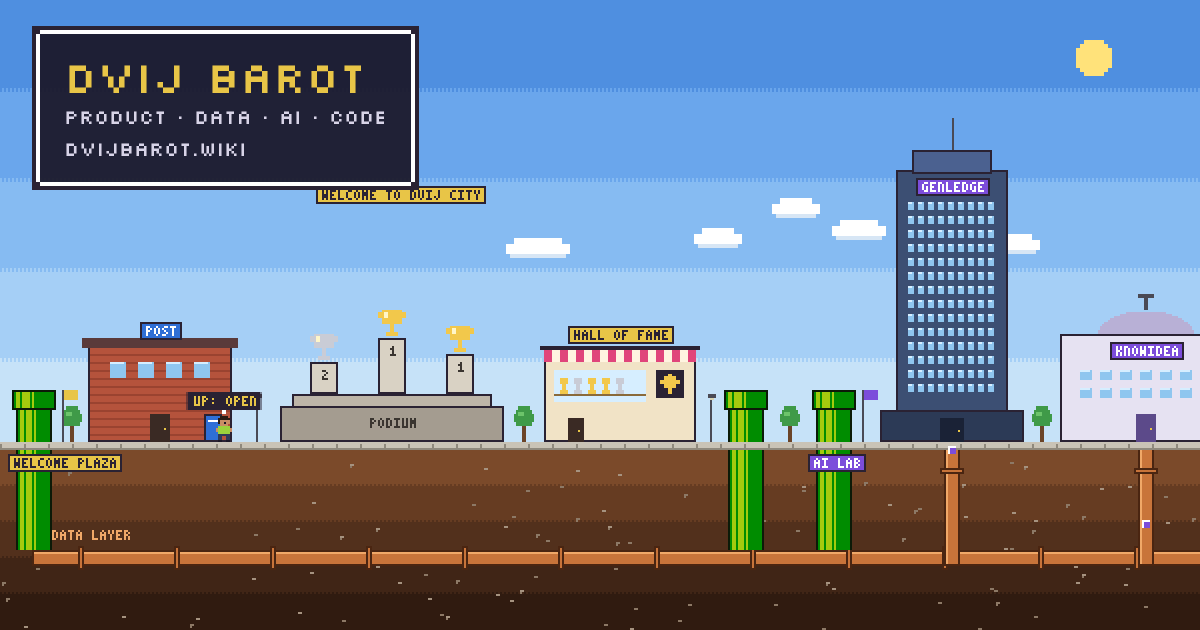
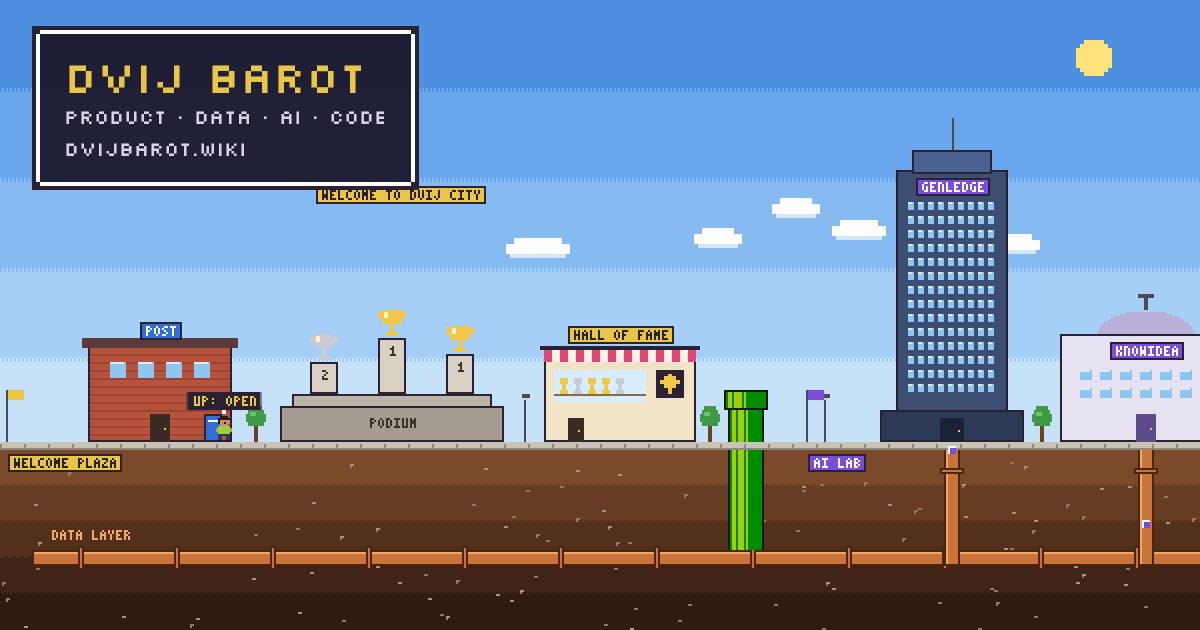
Warp pipes chain to each other in both directions
Removes the extra arrival pipes. There is one pipe between each pair of
districts, and they link in a chain: face right and go down to come out
of the next pipe, face left to come out of the previous one. The ends
wrap around. The prompt shows the direction (DOWN: WARP > or < DOWN: WARP).
Clicking a pipe warps forward; linking to a pipe just stands you on it.

Claude-Session: https://claude.ai/code/session_014qguYD8MymQYJPSwfXQGWj

diff --git a/src/scripts/city/world.ts b/src/scripts/city/world.ts
@@ -68,34 +68,29 @@ export interface Structure {
   riser?: number; // x of the data pipe that feeds this building
 }
 
-// Arrival pipes at each district entrance. Warps rise out of these. They are
-// exit-only (no ref), but solid, so you can stand on them.
-const arrivals = (): Structure[] =>
-  DISTRICTS.map((d) => ({ id: `arrive-${d.id}`, label: `${d.name} arrival pipe`, kind: 'warp' as const, x: d.x0 + 6, w: 22, h: 26, district: d.id }));
-
-export const STRUCTURES: Structure[] = ([
+export const STRUCTURES: Structure[] = [
   // Welcome Plaza
   { id: 'post', label: 'Post Office: about and contact', kind: 'post', x: 44, w: 72, h: 56, district: 'plaza', ref: { type: 'contact' }, text: ['POST'] },
   { id: 'podium', label: 'Podium: hackathon wins', kind: 'monument', x: 140, w: 112, h: 66, district: 'plaza', ref: { type: 'hackathons' }, text: ['PODIUM'] },
   { id: 'halloffame', label: 'Hall of Fame: trophy case', kind: 'kiosk', x: 272, w: 76, h: 52, district: 'plaza', ref: { type: 'trophies' }, text: ['HALL OF FAME'] },
-  { id: 'warp-1', label: 'Warp to AI Lab', kind: 'warp', x: 362, w: 22, h: 26, district: 'plaza', ref: { type: 'warp', to: 1 } },
+  { id: 'warp-1', label: 'Warp pipe', kind: 'warp', x: 362, w: 22, h: 26, district: 'plaza', ref: { type: 'warp', to: 1 } },
 
   // AI Lab
   { id: 'genledge', label: 'GenLedge Tower', kind: 'tower', x: 440, w: 72, h: 146, district: 'ai', ref: { type: 'role', org: 'GenLedge' }, text: ['GENLEDGE'], riser: 476 },
   { id: 'knowidea', label: 'KnowIdea Lab', kind: 'lab', x: 530, w: 86, h: 76, district: 'ai', ref: { type: 'role', org: 'KnowIdea Inc.' }, text: ['KNOWIDEA'], riser: 573 },
   { id: 'marble', label: 'Urban Marble Tower', kind: 'marble', x: 638, w: 48, h: 160, district: 'ai', ref: { type: 'project', name: 'Urban Marble' }, text: ['1ST'] },
-  { id: 'warp-2', label: 'Warp to Play District', kind: 'warp', x: 762, w: 22, h: 26, district: 'ai', ref: { type: 'warp', to: 2 } },
+  { id: 'warp-2', label: 'Warp pipe', kind: 'warp', x: 762, w: 22, h: 26, district: 'ai', ref: { type: 'warp', to: 2 } },
 
   // Play District
   { id: 'arcade', label: 'Arcade Hall: play games', kind: 'arcadehall', x: 838, w: 132, h: 98, district: 'play', ref: { type: 'arcade' }, text: ['ARCADE'] },
   { id: 'museum', label: 'Museum of Favourites', kind: 'museum', x: 984, w: 92, h: 86, district: 'play', ref: { type: 'museum' }, text: ['MUSEUM'] },
-  { id: 'warp-3', label: 'Warp to Marketing Strip', kind: 'warp', x: 1100, w: 22, h: 26, district: 'play', ref: { type: 'warp', to: 3 } },
+  { id: 'warp-3', label: 'Warp pipe', kind: 'warp', x: 1100, w: 22, h: 26, district: 'play', ref: { type: 'warp', to: 3 } },
 
   // Marketing Strip
   { id: 'golime', label: 'Go Lime', kind: 'shop', x: 1180, w: 92, h: 96, district: 'marketing', ref: { type: 'role', org: 'Go Lime Inc.' }, text: ['GO LIME'], riser: 1226 },
   { id: 'ab', label: 'A/B test billboard', kind: 'billboard', x: 1290, w: 84, h: 70, district: 'marketing', ref: { type: 'role', org: 'Go Lime Inc.' }, text: ['A', 'B'] },
   { id: 'leads', label: 'Lead reporting billboard', kind: 'billboard', x: 1388, w: 96, h: 58, district: 'marketing', ref: { type: 'role', org: 'Go Lime Inc.' }, text: ['LEADS', '12 MIN>10 S'] },
-  { id: 'warp-4', label: 'Warp to Civic Center', kind: 'warp', x: 1490, w: 22, h: 26, district: 'marketing', ref: { type: 'warp', to: 4 } },
+  { id: 'warp-4', label: 'Warp pipe', kind: 'warp', x: 1490, w: 22, h: 26, district: 'marketing', ref: { type: 'warp', to: 4 } },
 
   // Civic Center
   { id: 'cityscapes', label: 'CityScapes Park', kind: 'park', x: 1560, w: 88, h: 44, district: 'civic', ref: { type: 'project', name: 'CityScapes' }, text: ['CITYSCAPES'] },
@@ -104,20 +99,19 @@ export const STRUCTURES: Structure[] = ([
   { id: 'cityhall', label: 'Kitchener City Hall', kind: 'hall', x: 1868, w: 112, h: 104, district: 'civic', ref: { type: 'civic' }, text: ['CITY HALL'] },
   { id: 'altaml', label: 'Hauser Furniture: AltaML', kind: 'furniture', x: 1994, w: 68, h: 66, district: 'civic', ref: { type: 'role', org: 'AltaML Inc.' }, text: ['HAUSER'], riser: 2028 },
   { id: 'sevenafter', label: 'SevenAfter School', kind: 'school', x: 2080, w: 96, h: 80, district: 'civic', ref: { type: 'role', org: 'SevenAfter Technologies' }, text: ['SEVENAFTER'] },
-  { id: 'warp-5', label: 'Warp to Data District', kind: 'warp', x: 2206, w: 22, h: 26, district: 'civic', ref: { type: 'warp', to: 5 } },
+  { id: 'warp-5', label: 'Warp pipe', kind: 'warp', x: 2206, w: 22, h: 26, district: 'civic', ref: { type: 'warp', to: 5 } },
 
   // Data District
   { id: 'super', label: 'Super.com Warehouse', kind: 'warehouse', x: 2276, w: 156, h: 66, district: 'data', ref: { type: 'role', org: 'Super.com' }, text: ['SUPER.COM'], riser: 2354 },
   { id: 'lake', label: 'Data Lake: pipelines', kind: 'watertower', x: 2450, w: 36, h: 96, district: 'data', ref: { type: 'pipelines' }, text: ['DATA', 'LAKE'], riser: 2468 },
-  { id: 'warp-6', label: "Warp to Builder's Yard", kind: 'warp', x: 2526, w: 22, h: 26, district: 'data', ref: { type: 'warp', to: 6 } },
+  { id: 'warp-6', label: 'Warp pipe', kind: 'warp', x: 2526, w: 22, h: 26, district: 'data', ref: { type: 'warp', to: 6 } },
 
   // Builder's Yard
   { id: 'boggle', label: 'Boggle Zen Arcade', kind: 'arcade', x: 2600, w: 82, h: 62, district: 'yard', ref: { type: 'project', name: 'Boggle Zen' }, text: ['BOGGLE'] },
   { id: 'ecoeats', label: 'Eco Eats Grocer', kind: 'grocer', x: 2694, w: 84, h: 56, district: 'yard', ref: { type: 'project', name: 'Eco Eats Advisor' }, text: ['ECO EATS'], riser: 2736 },
   { id: 'summit', label: 'SUMMIT (under construction)', kind: 'construction', x: 2796, w: 116, h: 108, district: 'yard', ref: { type: 'project', name: 'SUMMIT Financial Learning' }, text: ['SUMMIT'] },
-  { id: 'warp-0', label: 'Warp back to Welcome Plaza', kind: 'warp', x: 2926, w: 22, h: 26, district: 'yard', ref: { type: 'warp', to: 0 } },
-  ...arrivals(),
-] satisfies Structure[]).sort((a, b) => a.x - b.x);
+  { id: 'warp-0', label: 'Warp pipe', kind: 'warp', x: 2926, w: 22, h: 26, district: 'yard', ref: { type: 'warp', to: 0 } },
+];
 
 
 // The warehouse junction every pipeline flows into.

diff --git a/src/scripts/city/walker.ts b/src/scripts/city/walker.ts
@@ -1,7 +1,7 @@
 // The visitor's character: walks the street, opens doors, and drops into
 // warp pipes. Drawn from a tiny pixel grid like everything else in the city.
 
-import { DISTRICTS, GROUND, STRUCTURES, WORLD_W, type Structure } from './world';
+import { GROUND, STRUCTURES, WORLD_W, type Structure } from './world';
 import { text, textWidth } from '../pixelfont';
 import type { Palette } from './art';
 
@@ -30,7 +30,9 @@ const WARP_TIME = 420;
 const GRAVITY = 0.18;
 const JUMP_SPEED = 3.4; // apex about 32px, enough to clear a 26px warp pipe
 
-const PIPES = STRUCTURES.filter((s) => s.kind === 'warp');
+// Warp pipes form a chain from west to east. Facing right sends you to the
+// next pipe, facing left to the previous one, and the ends wrap around.
+const PIPES = STRUCTURES.filter((s) => s.kind === 'warp').sort((a, b) => a.x - b.x);
 /** Warp pipe whose body overlaps x (with the character's half-width). */
 const pipeAt = (x: number) => PIPES.find((s) => x > s.x - 3 && x < s.x + s.w + 3);
 /** Height of whatever the character would stand on at x. */
@@ -59,9 +61,8 @@ export const onPipe = (w: Walker) => {
 
 /** The structure the character can use right now: a door in front of it, or the pipe under or beside it. */
 export function nearby(w: Walker): Structure | undefined {
-  const pipe = PIPES.find((s) => s.ref && w.x > s.x - 10 && w.x < s.x + s.w + 10);
+  const pipe = PIPES.find((s) => w.x > s.x - 10 && w.x < s.x + s.w + 10);
   if (pipe) return pipe;
-  if (pipeAt(w.x)) return undefined;
   return STRUCTURES.find((s) => s.ref && s.kind !== 'warp' && w.x >= s.x + 2 && w.x <= s.x + s.w - 2);
 }
 
@@ -72,10 +73,16 @@ export function standOn(w: Walker, s: Structure) {
   w.vy = 0;
 }
 
+/** The pipe you would come out of from pipe s, given which way you face. */
+export function destination(s: Structure, facing: 1 | -1) {
+  const i = PIPES.indexOf(s);
+  return PIPES[(i + facing + PIPES.length) % PIPES.length];
+}
+
 export function startWarp(w: Walker, s: Structure) {
-  if (w.warp > 0 || s.ref?.type !== 'warp' || !onPipe(w)) return false;
+  if (w.warp > 0 || w.rise > 0 || s.kind !== 'warp' || !onPipe(w)) return false;
   w.warp = WARP_TIME;
-  w.warpTo = s.ref.to;
+  w.warpTo = PIPES.indexOf(destination(s, w.facing));
   w.x = s.x + s.w / 2;
   return true;
 }
@@ -95,13 +102,11 @@ export function updateWalker(w: Walker, dir: number, run: boolean, dt: number): 
   if (w.warp > 0) {
     w.warp -= dt;
     if (w.warp <= 0) {
-      // Travel through the pipe network and rise out of the next district's arrival pipe.
-      const d = DISTRICTS[w.warpTo];
-      const exit = PIPES.find((s) => !s.ref && s.district === d.id);
-      w.x = exit ? exit.x + exit.w / 2 : d.x0 + 36;
-      w.jump = exit?.h ?? 0;
+      // Travel through the pipe network and rise out of the connected pipe.
+      const exit = PIPES[w.warpTo];
+      w.x = exit.x + exit.w / 2;
+      w.jump = exit.h;
       w.vy = 0;
-      w.facing = 1;
       w.rise = WARP_TIME;
     }
     return true;
@@ -170,7 +175,8 @@ export function drawWalker(ctx: CanvasRenderingContext2D, w: Walker, ox: number,
 
 export function drawPrompt(ctx: CanvasRenderingContext2D, w: Walker, s: Structure | undefined, ox: number, oy: number) {
   if (!s || w.warp > 0 || w.rise > 0) return;
-  const label = s.ref?.type !== 'warp' ? 'UP: OPEN' : onPipe(w) ? 'DOWN: WARP' : w.jump === 0 ? 'SPACE: HOP ON' : '';
+  const label =
+    s.kind !== 'warp' ? 'UP: OPEN' : onPipe(w) ? (w.facing === 1 ? 'DOWN: WARP >' : '< DOWN: WARP') : w.jump === 0 ? 'SPACE: HOP ON' : '';
   if (!label) return;
   const cx = Math.round(w.x + ox);
   const y = GROUND + oy - HEIGHT - 12 - Math.round(w.jump);

diff --git a/src/scripts/city/engine.ts b/src/scripts/city/engine.ts
@@ -113,7 +113,7 @@ export function mountCity(root: HTMLElement): City {
     b.type = 'button';
     b.className = `bldg${s.kind === 'warp' ? ' warp' : ''}`;
     b.dataset.sid = s.id;
-    b.setAttribute('aria-label', s.kind === 'warp' ? s.label : `${s.label}. Open details`);
+    b.setAttribute('aria-label', s.kind === 'warp' ? 'Warp pipe. Travel to the next pipe' : `${s.label}. Open details`);
     const tag = document.createElement('span');
     tag.className = 'tag';
     tag.textContent = s.label;
@@ -153,9 +153,14 @@ export function mountCity(root: HTMLElement): City {
   function activate(s: Structure, from: HTMLElement | null) {
     dismissWelcome();
     if (s.ref?.type === 'warp') {
-      sfx.warp();
-      const d = DISTRICTS[s.ref.to];
-      lookAt(d.x0 + 200);
+      // Clicking a pipe hops the character on and sends it forward.
+      standOn(walker, s);
+      walker.facing = 1;
+      if (startWarp(walker, s)) {
+        sfx.warp();
+        setTimeout(() => sfx.warp(), 430);
+      }
+      follow = true;
       return;
     }
     if (s.ref?.type === 'game') {
@@ -403,7 +408,7 @@ export function mountCity(root: HTMLElement): City {
         <tr><td>Walk</td><td><kbd>&larr;</kbd> <kbd>&rarr;</kbd> or <kbd>A</kbd> <kbd>D</kbd>, hold <kbd>Shift</kbd> to run</td><td>Arrow buttons</td></tr>
         <tr><td>Open a building</td><td><kbd>&uarr;</kbd> or <kbd>W</kbd> in front of it</td><td>Tap or click it</td></tr>
         <tr><td>Jump</td><td><kbd>Space</kbd></td><td>Jump button</td></tr>
-        <tr><td>Warp</td><td>Hop onto a green pipe, then <kbd>&darr;</kbd> or <kbd>S</kbd></td><td>Jump, then Warp</td></tr>
+        <tr><td>Warp</td><td>Hop onto a green pipe, face the way you want to go, then <kbd>&darr;</kbd> or <kbd>S</kbd>. Right goes to the next pipe, left to the previous one.</td><td>Tap a pipe, or Jump then Warp</td></tr>
         <tr><td>Next district</td><td><kbd>Page Up</kbd> <kbd>Page Down</kbd></td><td>Tap the map bar</td></tr>
         <tr><td>Look around</td><td>Scroll</td><td>Drag or swipe</td></tr>
         <tr><td>Guided tour</td><td><kbd>&larr;</kbd> <kbd>&rarr;</kbd> inside any building</td><td>Prev and Next</td></tr>
@@ -587,7 +592,8 @@ export function mountCity(root: HTMLElement): City {
       dismissWelcome();
       standOn(walker, s);
       lookAt(s.x + s.w / 2, true);
-      if (open && s.ref) activate(s, buttonFor(s));
+      // Linking to a pipe stands you on it; it doesn't warp you away.
+      if (open && s.ref && s.kind !== 'warp') activate(s, buttonFor(s));
       else buttonFor(s)?.focus({ preventScroll: true });
     },
     stop() {

diff --git a/src/scripts/city/art.ts b/src/scripts/city/art.ts
@@ -672,8 +672,8 @@ export function buildCityLayer(p: Palette) {
   drawStreet(ctx, p);
   for (const s of STRUCTURES) drawStructure(ctx, s, p);
   for (const d of DISTRICTS) {
-    rect(ctx, d.x0 + 31, GROUND - 26, 1, 26, p.lamp);
-    rect(ctx, d.x0 + 32, GROUND - 26, 7, 5, shade(LENS_COLOR[d.lens], p));
+    rect(ctx, d.x0 + 3, GROUND - 26, 1, 26, p.lamp);
+    rect(ctx, d.x0 + 4, GROUND - 26, 8, 5, shade(LENS_COLOR[d.lens], p));
   }
   // Welcome banner
   sign(ctx, 'WELCOME TO DVIJ CITY', 200, 48, '#e8c547', '#2a2233', p);
